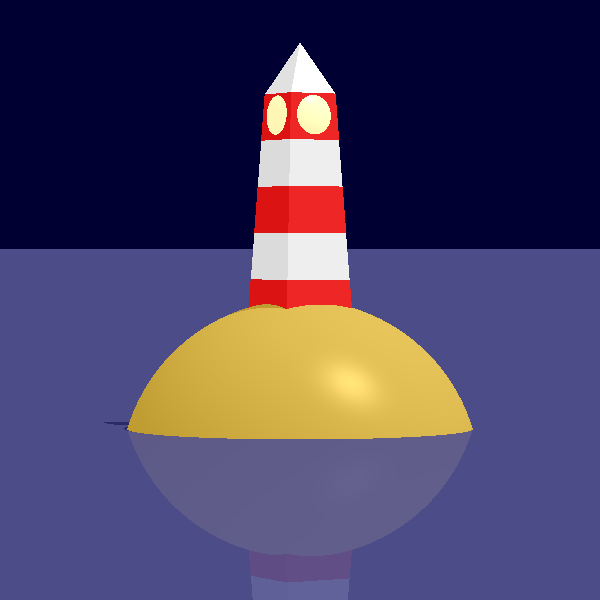
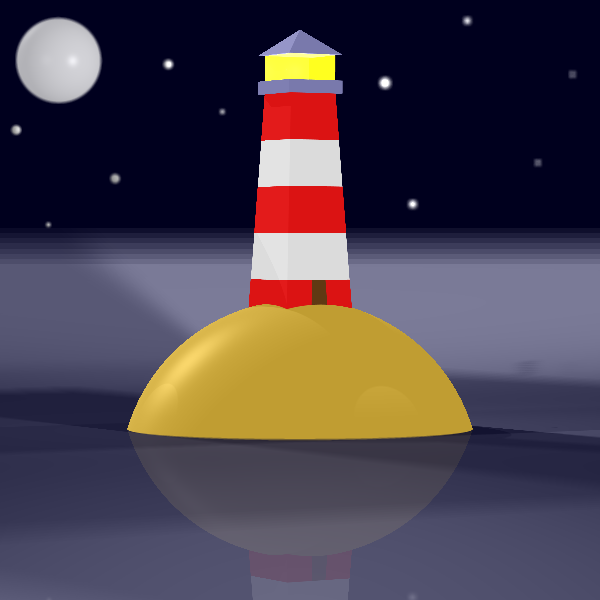
mini project

diff --git a/tests/FinalProject.java b/tests/FinalProject.java
@@ -1,6 +1,7 @@
 import elements.AmbientLight;
 import elements.Camera;
 import elements.DirectionalLight;
+import elements.PointLight;
 import geometries.Plane;
 import geometries.Polygon;
 import geometries.Sphere;
@@ -17,19 +18,21 @@ import scene.Scene;
 
 public class FinalProject {
     private static final Material mat = new Material().setKd(0.5).setKs(0.5).setShininess(30);
+    private static final Material transMat = new Material().setKd(0.2).setKs(0.2).setShininess(35).setkT(0.4);
+
     private Scene scene = new Scene("Test scene");
     private Camera camera = new Camera(new Point3D(1000, -600, 20), new Vector(-50, 30, -1), new Vector(-50, 30, 3400)) //
-            .setViewPlaneSize(200, 200).setDistance(1000);
+            .setViewPlaneSize(200, 200).setDistance(1000).setAperture(16,3).setFocalDistance(1166);
 
     @Test
     public void myPicture() {
-        scene.setAmbientLight(new AmbientLight(new Color(java.awt.Color.gray), 0.15)).setBackGround(new Color(0, 0, 51));
+        scene.setAmbientLight(new AmbientLight(new Color(java.awt.Color.gray), 0.15)).setBackGround(new Color(0, 0, 30));
         scene.geometries.add(
 
                 //sea
                 new Plane(new Point3D(0, 0, -50), new Vector(0, 0, 1))
-                        .setEmission(new Color(23, 23, 79))
-                        .setMaterial(new Material().setKd(0.5).setKs(0.5).setShininess(35).setkR(0.1)),
+                        .setEmission(new Color(0, 0, 26))
+                        .setMaterial(new Material().setKd(0.2).setKs(0.2).setShininess(10).setkR(0.1)),
 
                 //island
                 new Sphere(70, new Point3D(0, 0, -70))
@@ -80,20 +83,76 @@ public class FinalProject {
                 new Polygon(new Point3D(-11.05, 11.05, 62), new Point3D(-10.05, 10.05, 80), new Point3D(10.05, 10.05, 80), new Point3D(11.05, 11.05, 62))
                         .setEmission(new Color(200, 0, 0)).setMaterial(mat),
 
+                //door
+                new Polygon(new Point3D(15.06, -4, -10), new Point3D(14.06, -3, 8), new Point3D(14.06, 3, 8), new Point3D(15.06, 4, -10))
+                        .setEmission(new Color(77,38,0)),
+
+                //blue thing
+                new Polygon(new Point3D(12,-12,80),new Point3D(-12,-12,80),new Point3D(-12,12,80),new Point3D(12,12,80))
+                        .setEmission(new Color(102,102,153)).setMaterial(mat),
+                new Polygon(new Point3D(12,-12,85),new Point3D(-12,-12,85),new Point3D(-12,12,85),new Point3D(12,12,85))
+                        .setEmission(new Color(102,102,153)).setMaterial(mat),
+                new Polygon(new Point3D(12,-12,80),new Point3D(12,-12,85),new Point3D(12,12,85),new Point3D(12,12,80))
+                        .setEmission(new Color(102,102,153)).setMaterial(mat),
+                new Polygon(new Point3D(-12,-12,80),new Point3D(-12,-12,85),new Point3D(12,-12,85),new Point3D(12,-12,80))
+                        .setEmission(new Color(102,102,153)).setMaterial(mat),
+                new Polygon(new Point3D(-12,-12,80),new Point3D(-12,-12,85),new Point3D(-12,12,85),new Point3D(-12,12,80))
+                        .setEmission(new Color(102,102,153)).setMaterial(mat),
+                new Polygon(new Point3D(-12,12,80),new Point3D(-12,12,85),new Point3D(-12,-12,85),new Point3D(-12,-12,80))
+                        .setEmission(new Color(102,102,153)).setMaterial(mat),
+
+                //windows
+                 new Polygon(new Point3D(10,-10,85),new Point3D(10,-10,95),new Point3D(10,10,95),new Point3D(10,10,85))
+                        .setEmission(new Color(255,255,0)).setMaterial(transMat),
+                new Polygon(new Point3D(-10,-10,85),new Point3D(-10,-10,95),new Point3D(10,-10,95),new Point3D(10,-10,85))
+                        .setEmission(new Color(255,255,0)).setMaterial(transMat),
+                new Polygon(new Point3D(-10,-10,85),new Point3D(-10,-10,95),new Point3D(-10,10,95),new Point3D(-10,10,85))
+                        .setEmission(new Color(255,255,0)).setMaterial(transMat),
+                new Polygon(new Point3D(-10,10,85),new Point3D(-10,10,95),new Point3D(-10,-10,95),new Point3D(-10,-10,85))
+                        .setEmission(new Color(255,255,0)).setMaterial(transMat),
+
                 //roof
-                new Triangle(new Point3D(10, -10, 80), new Point3D(10, 10, 80), new Point3D(0, 0, 100))
-                        .setEmission(new Color(200,200,200)).setMaterial(mat),
-                new Triangle(new Point3D(-10, -10, 80), new Point3D(10, -10, 80), new Point3D(0, 0, 100))
-                        .setEmission(new Color(200,200,200)).setMaterial(mat),
-                new Triangle(new Point3D(-10, -10, 80), new Point3D(-10, 10, 80), new Point3D(0, 0, 100))
-                        .setEmission(new Color(200,200,200)).setMaterial(mat),
-                new Triangle(new Point3D(-10, 10, 80), new Point3D(10, 10, 80), new Point3D(0, 0, 100))
-                        .setEmission(new Color(200,200,200)).setMaterial(mat)
+                new Polygon(new Point3D(12,-12,95),new Point3D(-12,-12,95),new Point3D(-12,12,95),new Point3D(12,12,95))
+                        .setEmission(new Color(102,102,153)).setMaterial(mat),
+                new Triangle(new Point3D(12, -12, 95), new Point3D(12, 12, 95), new Point3D(0, 0, 105))
+                        .setEmission(new Color(102,102,153)).setMaterial(mat),
+                new Triangle(new Point3D(-12, -12, 95), new Point3D(12, -12, 95), new Point3D(0, 0, 105))
+                        .setEmission(new Color(102,102,153)).setMaterial(mat),
+                new Triangle(new Point3D(-12, -12, 95), new Point3D(-12, 12, 95), new Point3D(0, 0, 105))
+                        .setEmission(new Color(102,102,153)).setMaterial(mat),
+                new Triangle(new Point3D(-12, 12, 95), new Point3D(12, 12, 95), new Point3D(0, 0, 105))
+                        .setEmission(new Color(2102,102,153)).setMaterial(mat),
+
+                //moon
+                new Sphere(18, new Point3D(-150,-30,100)).setEmission(new Color(110,110,110)).setMaterial(transMat),
+
+                //stars
+                new Sphere(1, new Point3D(-150,50,80)).setEmission(new Color(110,110,110)).setMaterial(mat),
+                new Sphere(2.5, new Point3D(-150,135,95)).setEmission(new Color(110,110,110)).setMaterial(mat),
+                new Sphere(1.5, new Point3D(-150,180,125)).setEmission(new Color(110,110,110)).setMaterial(mat),
+                new Sphere(1, new Point3D(-150,220,60)).setEmission(new Color(110,110,110)).setMaterial(mat),
+                new Sphere(1.8, new Point3D(-150,150,40)).setEmission(new Color(110,110,110)).setMaterial(mat),
+                new Sphere(1, new Point3D(-150,240,102)).setEmission(new Color(110,110,110)).setMaterial(mat),
+                new Sphere(2, new Point3D(-150,23,100)).setEmission(new Color(110,110,110)).setMaterial(mat),
+                new Sphere(2, new Point3D(-150,-3,50)).setEmission(new Color(110,110,110)).setMaterial(mat),
+                new Sphere(2, new Point3D(-150,-50,70)).setEmission(new Color(110,110,110)).setMaterial(mat),
+                new Sphere(1, new Point3D(-150,-35,30)).setEmission(new Color(110,110,110)).setMaterial(mat)
+
+
         );
-        scene.lights.add(new DirectionalLight(new Color(80, 80, 80), new Vector(-50, -30, -100)));
+
+        scene.lights.add(new DirectionalLight(new Color(80, 80, 80), new Vector(150, 30, -100)));
+        scene.lights.add(new PointLight(new Color(200, 200, 200),new Point3D(9.9,0,90)));
+        scene.lights.add(new PointLight(new Color(200, 200, 200),new Point3D(-9.9,0,90)));
+        scene.lights.add(new PointLight(new Color(200, 200, 200),new Point3D(0,9.9,90)));
+        scene.lights.add(new PointLight(new Color(200, 200, 200),new Point3D(0,-9.9,90)));
+
+
         Render render = new Render() //
                 .setImageWriter(new ImageWriter("LightHouse", 600, 600)) //
                 .setCamera(camera) //
+                .setMultithreading(3)
+                .setMultyRay(false)
                 .setRayTracer(new BasicRayTracer(scene));
         render.renderImage();
         render.writeToImage();
